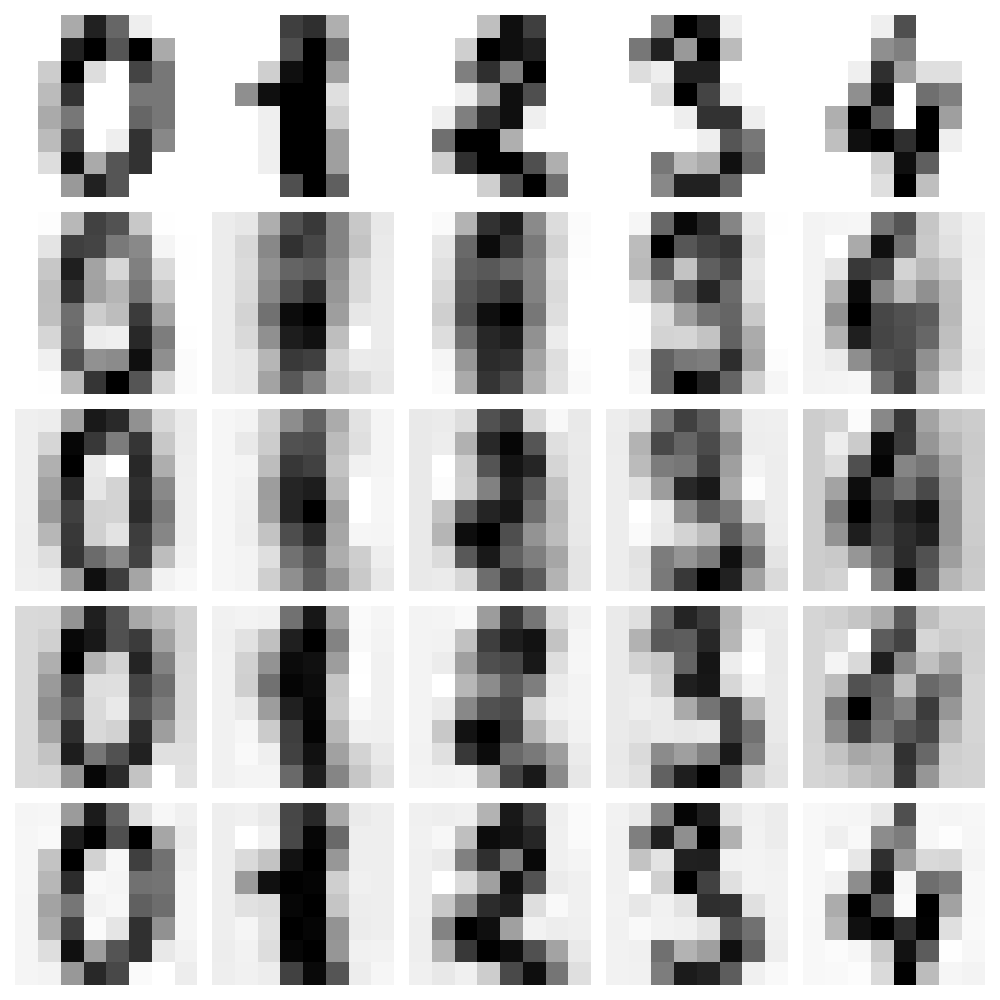
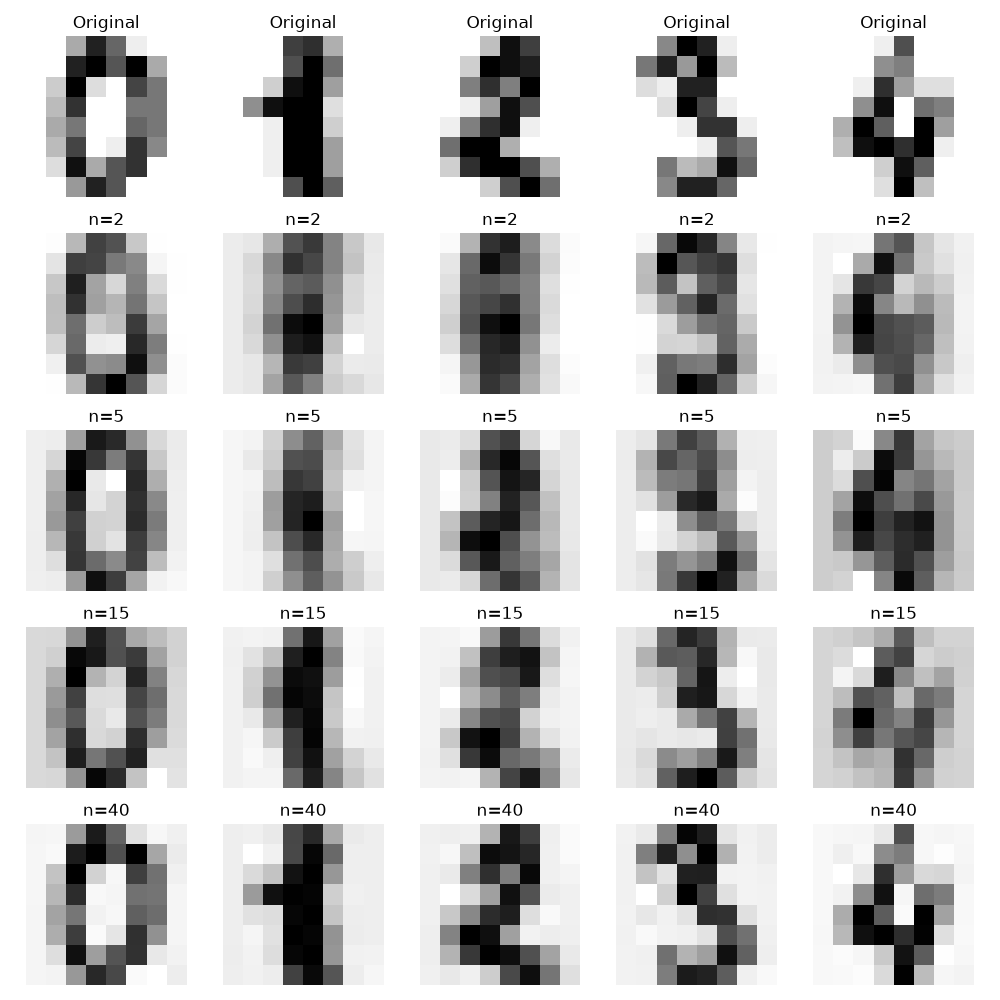
revision to warmup pca-task4

diff --git a/assignments_03/warmup_03.py b/assignments_03/warmup_03.py
@@ -212,22 +212,24 @@ n_values = [2, 5, 15, 40]
 
 fig, axes = plt.subplots(5, 5, figsize=(10, 10))
 
-# original digits (top row)
+# original row
 for col in range(5):
-    axes[0, col].imshow(images[col], cmap="gray_r")
-    axes[0, col].axis("off")
-    if col == 0:
-        axes[0, col].set_ylabel("Original", fontsize=12)
+    ax = axes[0, col]
+    ax.imshow(images[col], cmap="gray_r")
+    ax.set_title("Original")
+    ax.axis("off")
     
 # reconstructions
 for row, n in enumerate(n_values, start=1):
     for col in range(5):
-        reconstruction = reconstruct_digit(col, scores, pca, n)
-        
-        axes[row, col].imshow(reconstruction, cmap="gray_r")
-        axes[row, col].axis("off")
-        if col == 0:
-            axes[row, col].set_ylabel(f"n={n}", fontsize=12)
+        for col in range(5):
+            ax = axes[row, col]
+            
+            reconstruction = reconstruct_digit(col, scores, pca, n)
+            
+            ax.imshow(reconstruction, cmap="gray_r")
+            ax.set_title(f"n={n}")
+            ax.axis("off")
         
 plt.tight_layout()
 plt.savefig("assignments_03/outputs/pca_reconstructions.png")